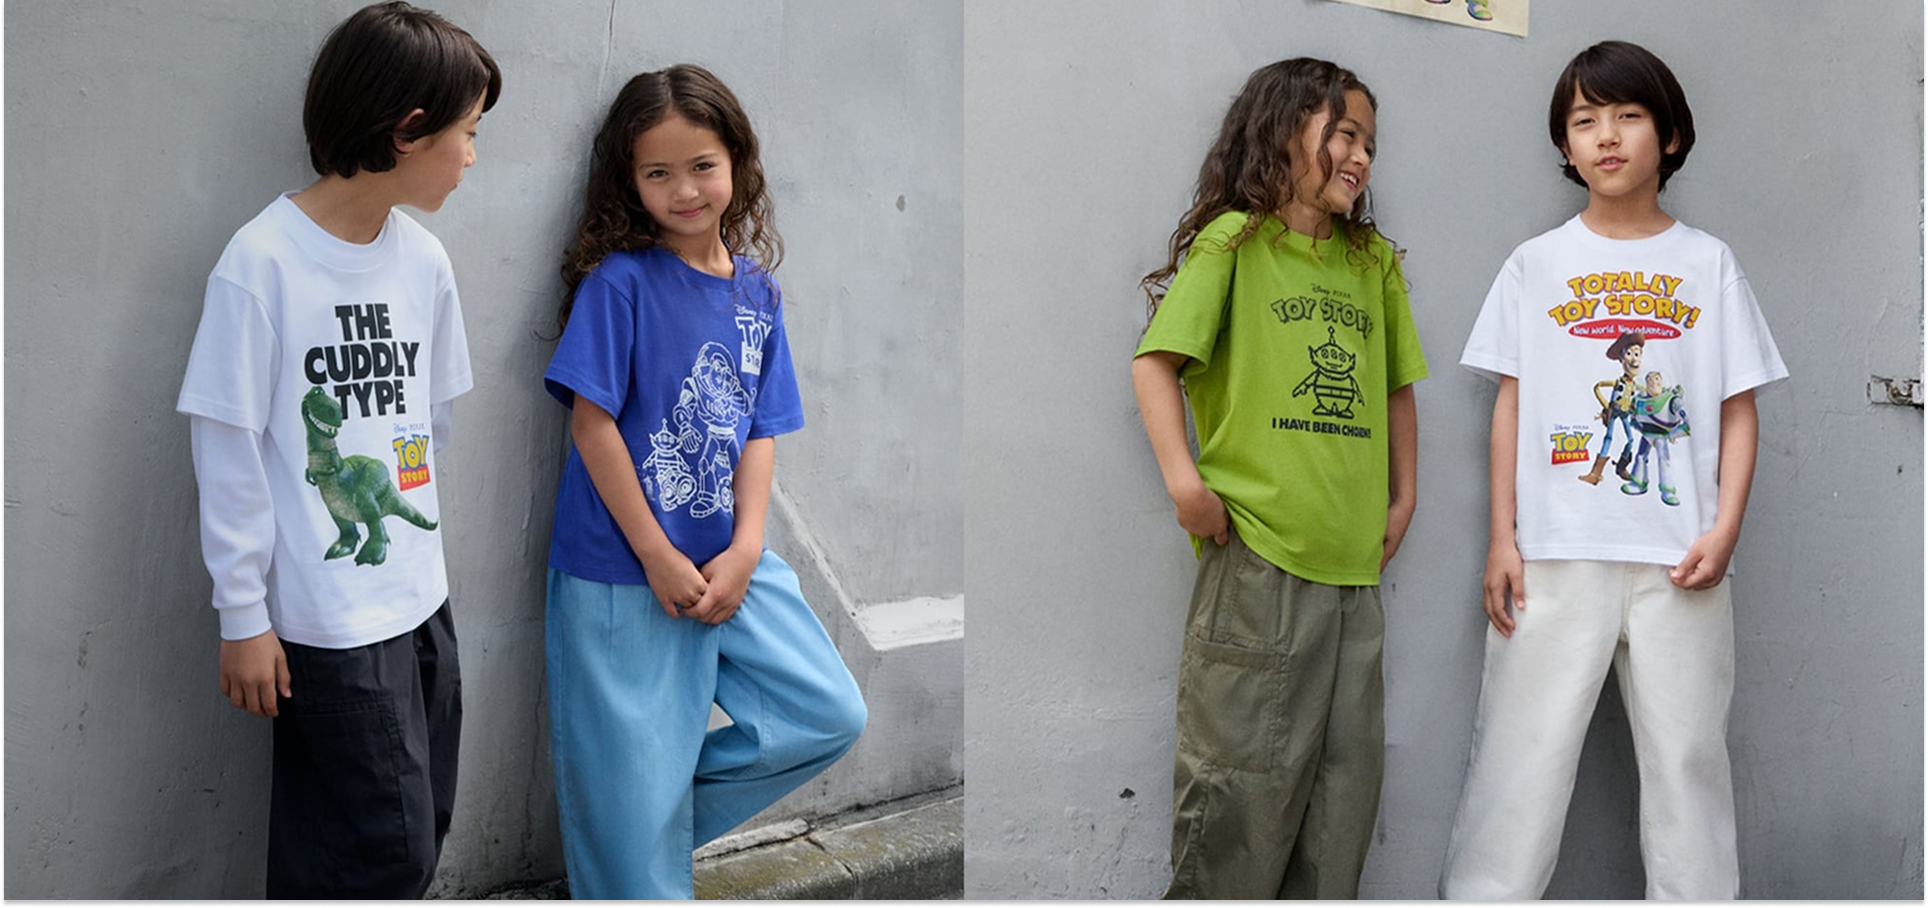
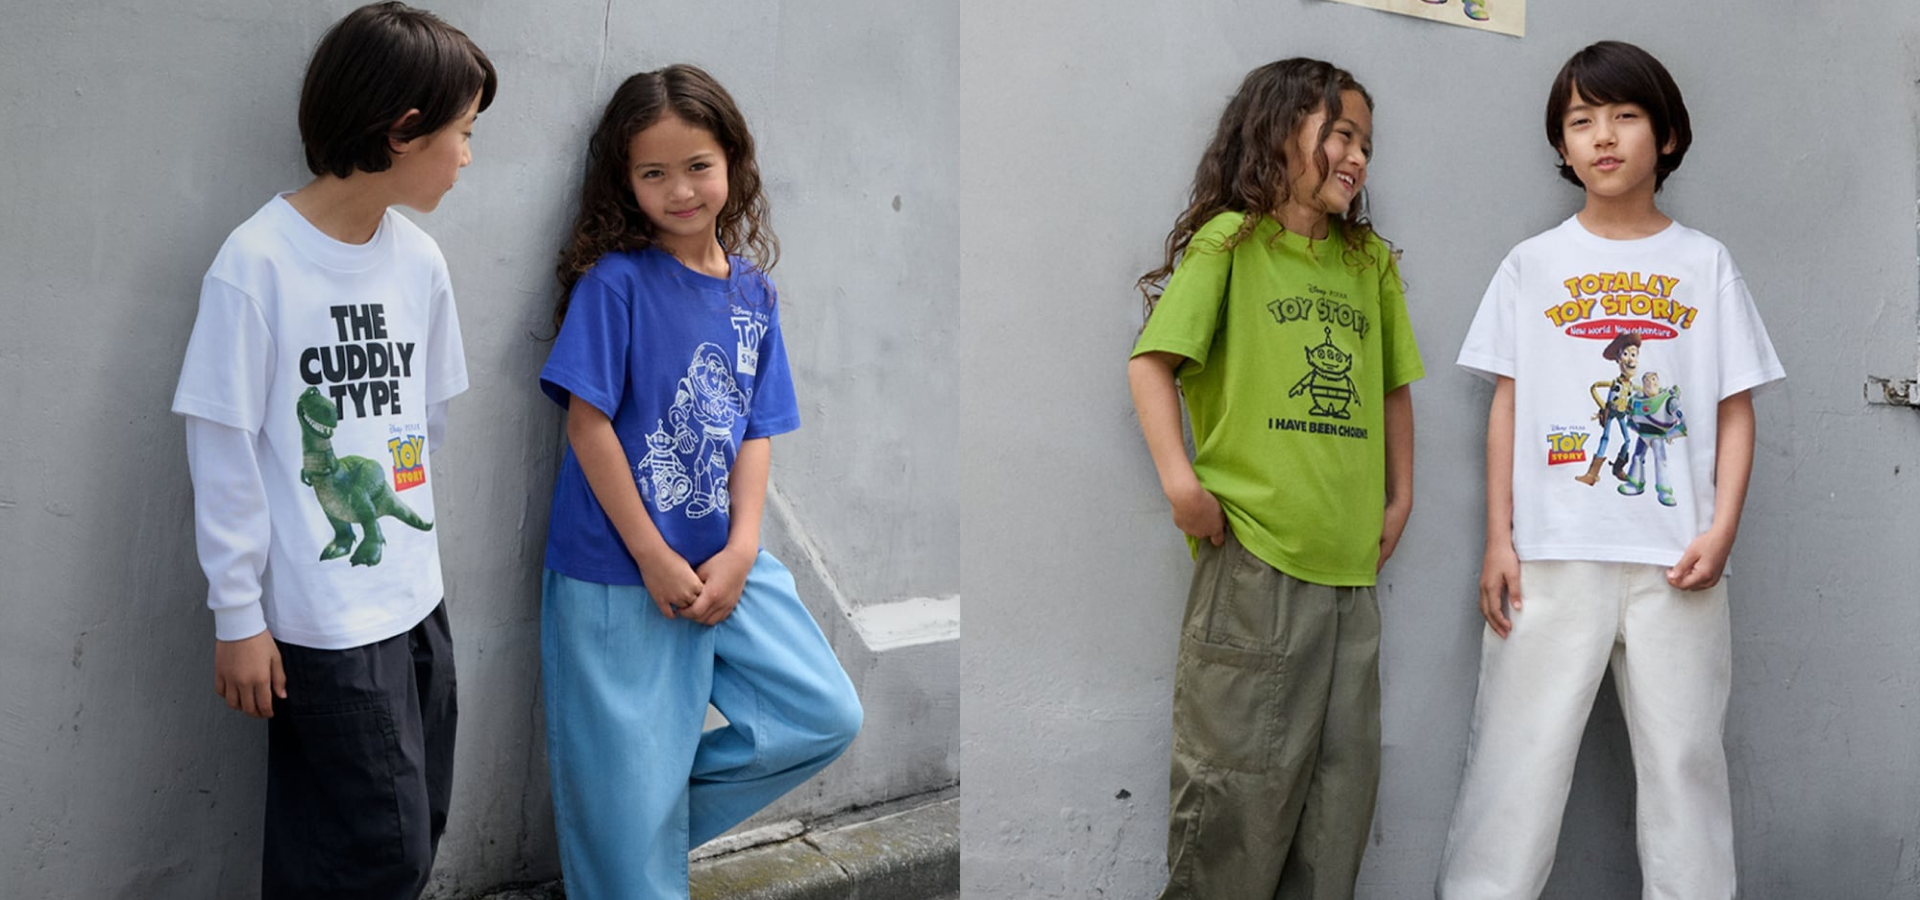
-visual_sldie img작업 완료

diff --git a/index.html b/index.html
@@ -17,12 +17,10 @@
     <!-- 소셜 미디어에서 페이지가 웹사이트임을 명시 -->
     <meta property="og:type" content="website" />
     <!-- css -->
-    <link
-      rel="stylesheet"
-      href="https://cdn.jsdelivr.net/npm/reset-css@4.0.1/reset.min.css"
-    />
+    <link rel="stylesheet" href="https://cdn.jsdelivr.net/npm/reset-css@4.0.1/reset.min.css" />
     <link rel="stylesheet" href="css/main.css" />
     <!-- Swiper JS -->
+    <script src="https://cdn.jsdelivr.net/npm/swiper@11/swiper-element-bundle.min.js"></script>
     <!-- favicon -->
     <link rel="icon" href="images/icon/uniqlo_favicon.png" />
     <title>uniqlo 유니클로</title>
@@ -104,19 +102,10 @@
                 <a href="#;">STORY</a>
               </li>
               <li>
-                <a
-                  href="#;"
-                  style="color: #9fa4a8; font-weight: 300; font-style: italic"
-                  class="front_bar"
-                  >Service</a
-                >
+                <a href="#;" style="color: #9fa4a8; font-weight: 300; font-style: italic" class="front_bar">Service</a>
               </li>
               <li>
-                <a
-                  href="#;"
-                  style="color: #9fa4a8; font-weight: 300; font-style: italic"
-                  >Stores</a
-                >
+                <a href="#;" style="color: #9fa4a8; font-weight: 300; font-style: italic">Stores</a>
               </li>
             </ul>
             <div class="util_wrap">
@@ -132,6 +121,41 @@
             </div>
           </nav>
         </header>
+      </div>
+      <!-- 메인 슬라이드 -->
+      <div class="main">
+        <swiper-container class="mySwiper wide-swiper">
+          <swiper-slide>
+            <a href="#;">
+              <img src="images/visual_slide/visual_slide01.png" alt="비주얼 슬라이드01" />
+            </a>
+          </swiper-slide>
+          <swiper-slide>
+            <a href="#;">
+              <img src="images/visual_slide/visual_slide02.png" alt="비주얼 슬라이드02" />
+            </a>
+          </swiper-slide>
+          <swiper-slide>
+            <a href="#;">
+              <img src="images/visual_slide/visual_slide03.png" alt="비주얼 슬라이드03" />
+            </a>
+          </swiper-slide>
+          <swiper-slide>
+            <a href="#;">
+              <img src="images/visual_slide/visual_slide04.png" alt="비주얼 슬라이드04" />
+            </a>
+          </swiper-slide>
+          <swiper-slide>
+            <a href="#;">
+              <img src="images/visual_slide/visual_slide05.png" alt="비주얼 슬라이드05" />
+            </a>
+          </swiper-slide>
+          <swiper-slide>
+            <a href="#;">
+              <img src="images/visual_slide/visual_slide06.png" alt="비주얼 슬라이드06" />
+            </a>
+          </swiper-slide>
+        </swiper-container>
       </div>
     </div>
   </body>

diff --git a/css/main.css b/css/main.css
@@ -117,3 +117,30 @@ nav .util_wrap a .cart {
   background: url(../images/icon/cart_icon.png) no-repeat;
   background-size: contain;
 }
+/* 메인 슬라이드 */
+swiper-container {
+  width: 100%;
+  height: calc(100vh-142px);
+  /* position: relative; */
+}
+
+swiper-slide {
+  width: 100%;
+  height: 100%;
+  text-align: center;
+  font-size: 18px;
+  background: #444;
+  display: flex;
+  justify-content: center;
+  align-items: center;
+}
+swiper-slide a {
+  width: 100%;
+  height: 100%;
+}
+swiper-slide a img {
+  display: block;
+  width: 100%;
+  height: 100%;
+  object-fit: cover;
+}
